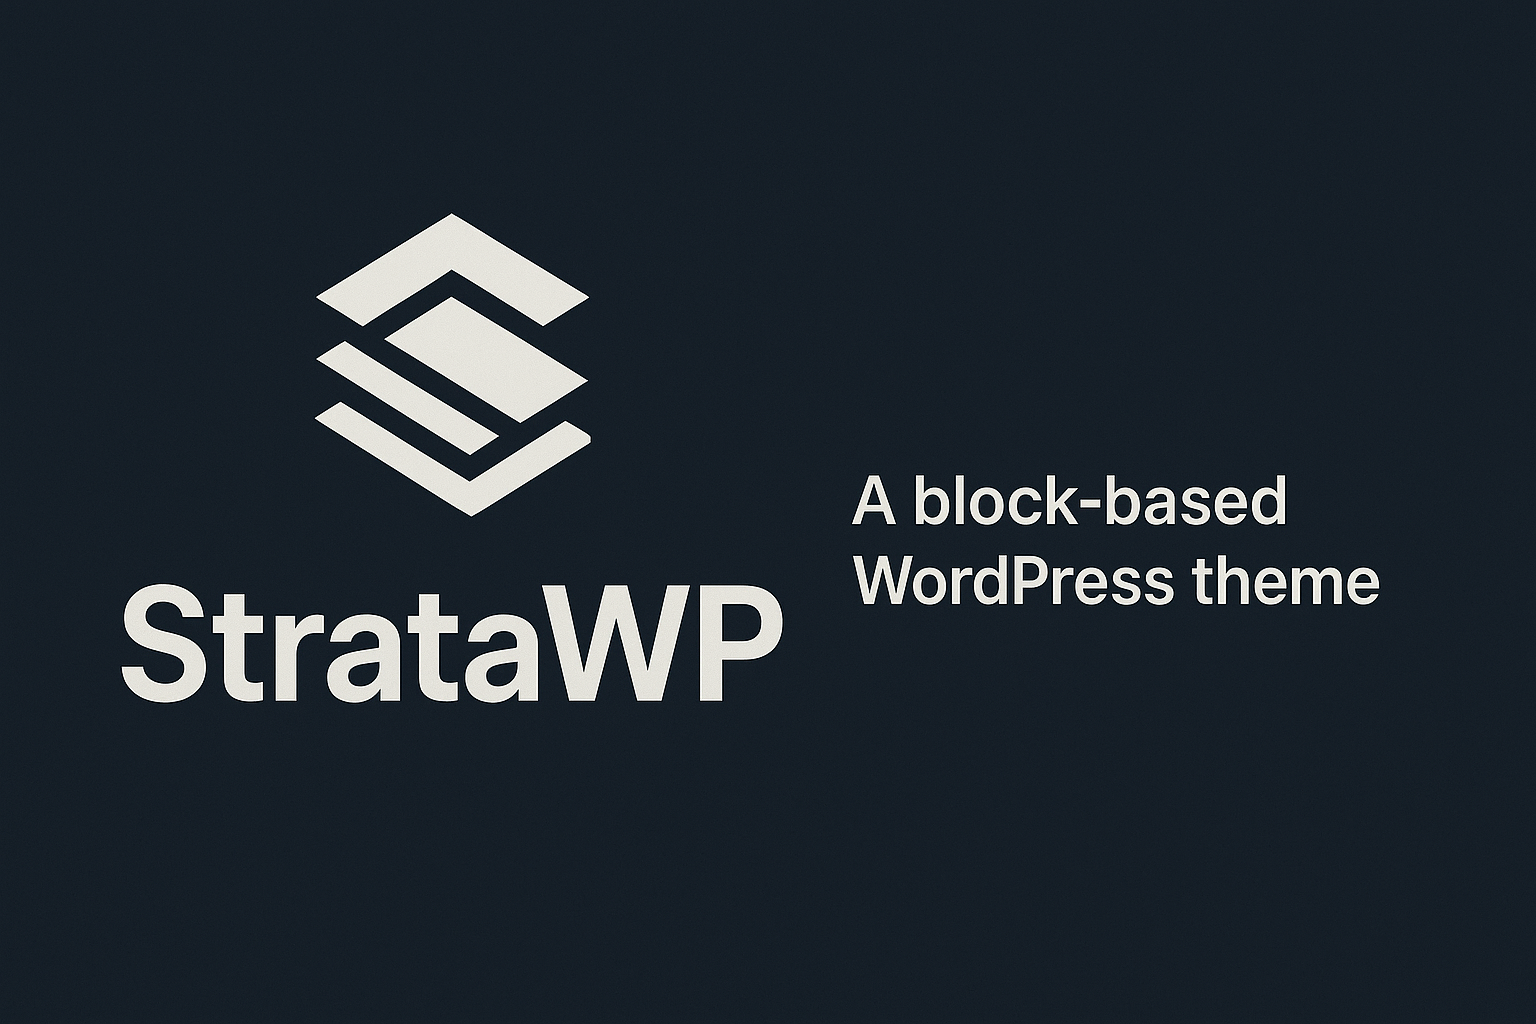
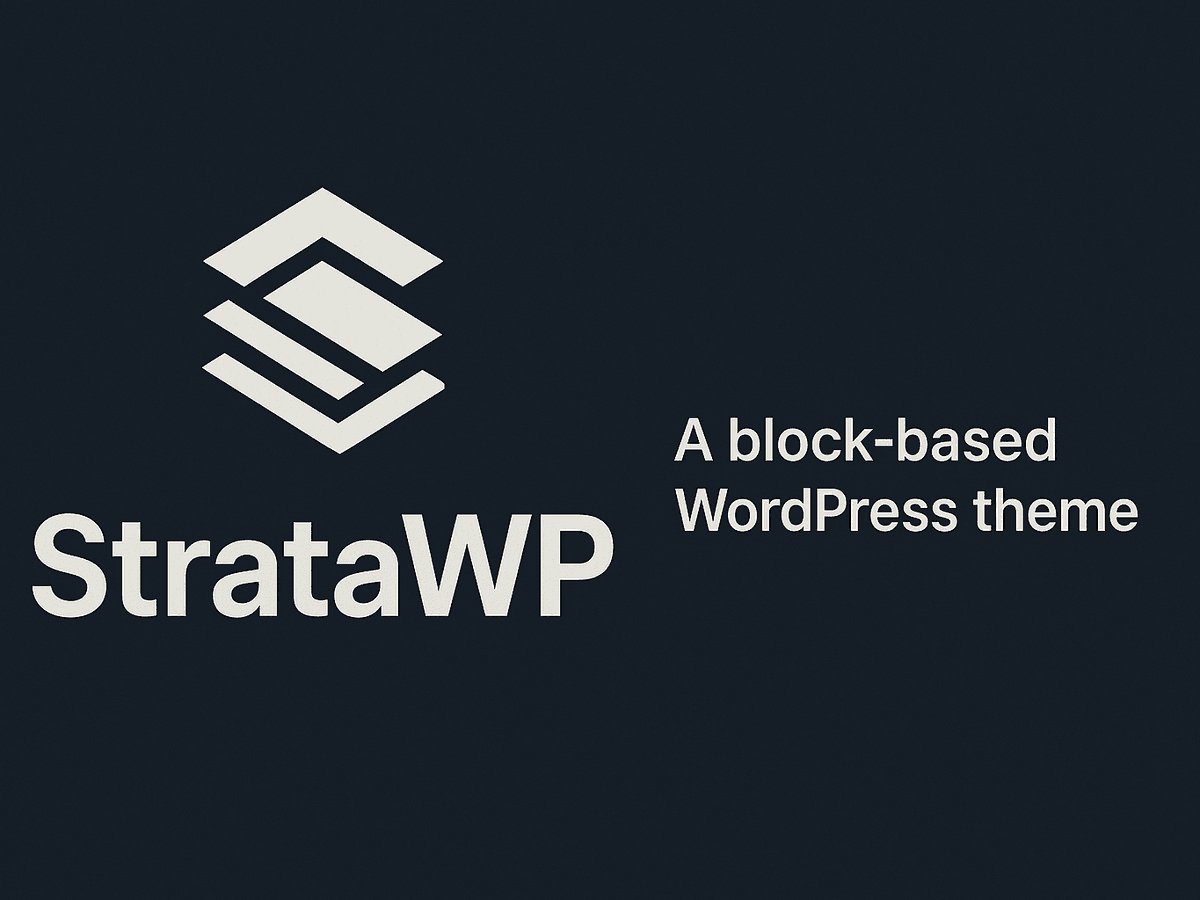
fix(themes): ship 1200x900 screenshots and a readme.txt in every example and template

Changed region(s): [[0.1542, 0.1867, 0.4008, 0.5289], [0.0308, 0.56, 0.5242, 0.6844], [0.555, 0.4667, 0.9558, 0.5911]]

diff --git a/packages/cli/src/theme-metadata.test.ts b/packages/cli/src/theme-metadata.test.ts
@@ -1,0 +1,52 @@
+import { describe, it, expect } from 'vitest'
+import fs from 'fs-extra'
+import path from 'path'
+import { fileURLToPath } from 'url'
+
+const root = path.join(path.dirname(fileURLToPath(import.meta.url)), '..', '..', '..')
+const THEMES = [
+  'examples/basic-theme',
+  'examples/advanced-theme',
+  'examples/store-theme',
+  'packages/cli/templates/basic-theme',
+  'packages/cli/templates/advanced-theme',
+  'packages/cli/templates/store-theme',
+]
+
+function pngSize(file: string): { width: number; height: number } {
+  const buf = fs.readFileSync(file)
+  return { width: buf.readUInt32BE(16), height: buf.readUInt32BE(20) }
+}
+
+function escapeRegExp(value: string): string {
+  return value.replace(/[.*+?^${}()|[\]\\]/g, '\\$&')
+}
+
+describe.each(THEMES)('%s metadata', (theme) => {
+  it('ships a 1200x900 screenshot.png', () => {
+    expect(pngSize(path.join(root, theme, 'screenshot.png'))).toEqual({ width: 1200, height: 900 })
+  })
+
+  it('ships a readme.txt with the WordPress.org theme headers, matching style.css', () => {
+    const readme = fs.readFileSync(path.join(root, theme, 'readme.txt'), 'utf8')
+    const style = fs.readFileSync(path.join(root, theme, 'style.css'), 'utf8')
+    const header = (name: string) =>
+      style.match(new RegExp(`^\\s*${escapeRegExp(name)}:\\s*(.+)$`, 'mi'))?.[1]?.trim()
+    expect(readme).toMatch(/^=== .+ ===/m)
+    for (const field of [
+      'Requires at least',
+      'Tested up to',
+      'Requires PHP',
+      'License',
+      'License URI',
+    ]) {
+      const value = header(field)
+      expect(value, `${theme} style.css is missing ${field}`).toBeTruthy()
+      expect(readme).toMatch(
+        new RegExp(`^${escapeRegExp(field)}: ${escapeRegExp(value as string)}$`, 'm')
+      )
+    }
+    expect(readme).toMatch(/^== Description ==/m)
+    expect(readme).toMatch(/^== Changelog ==/m)
+  })
+})
